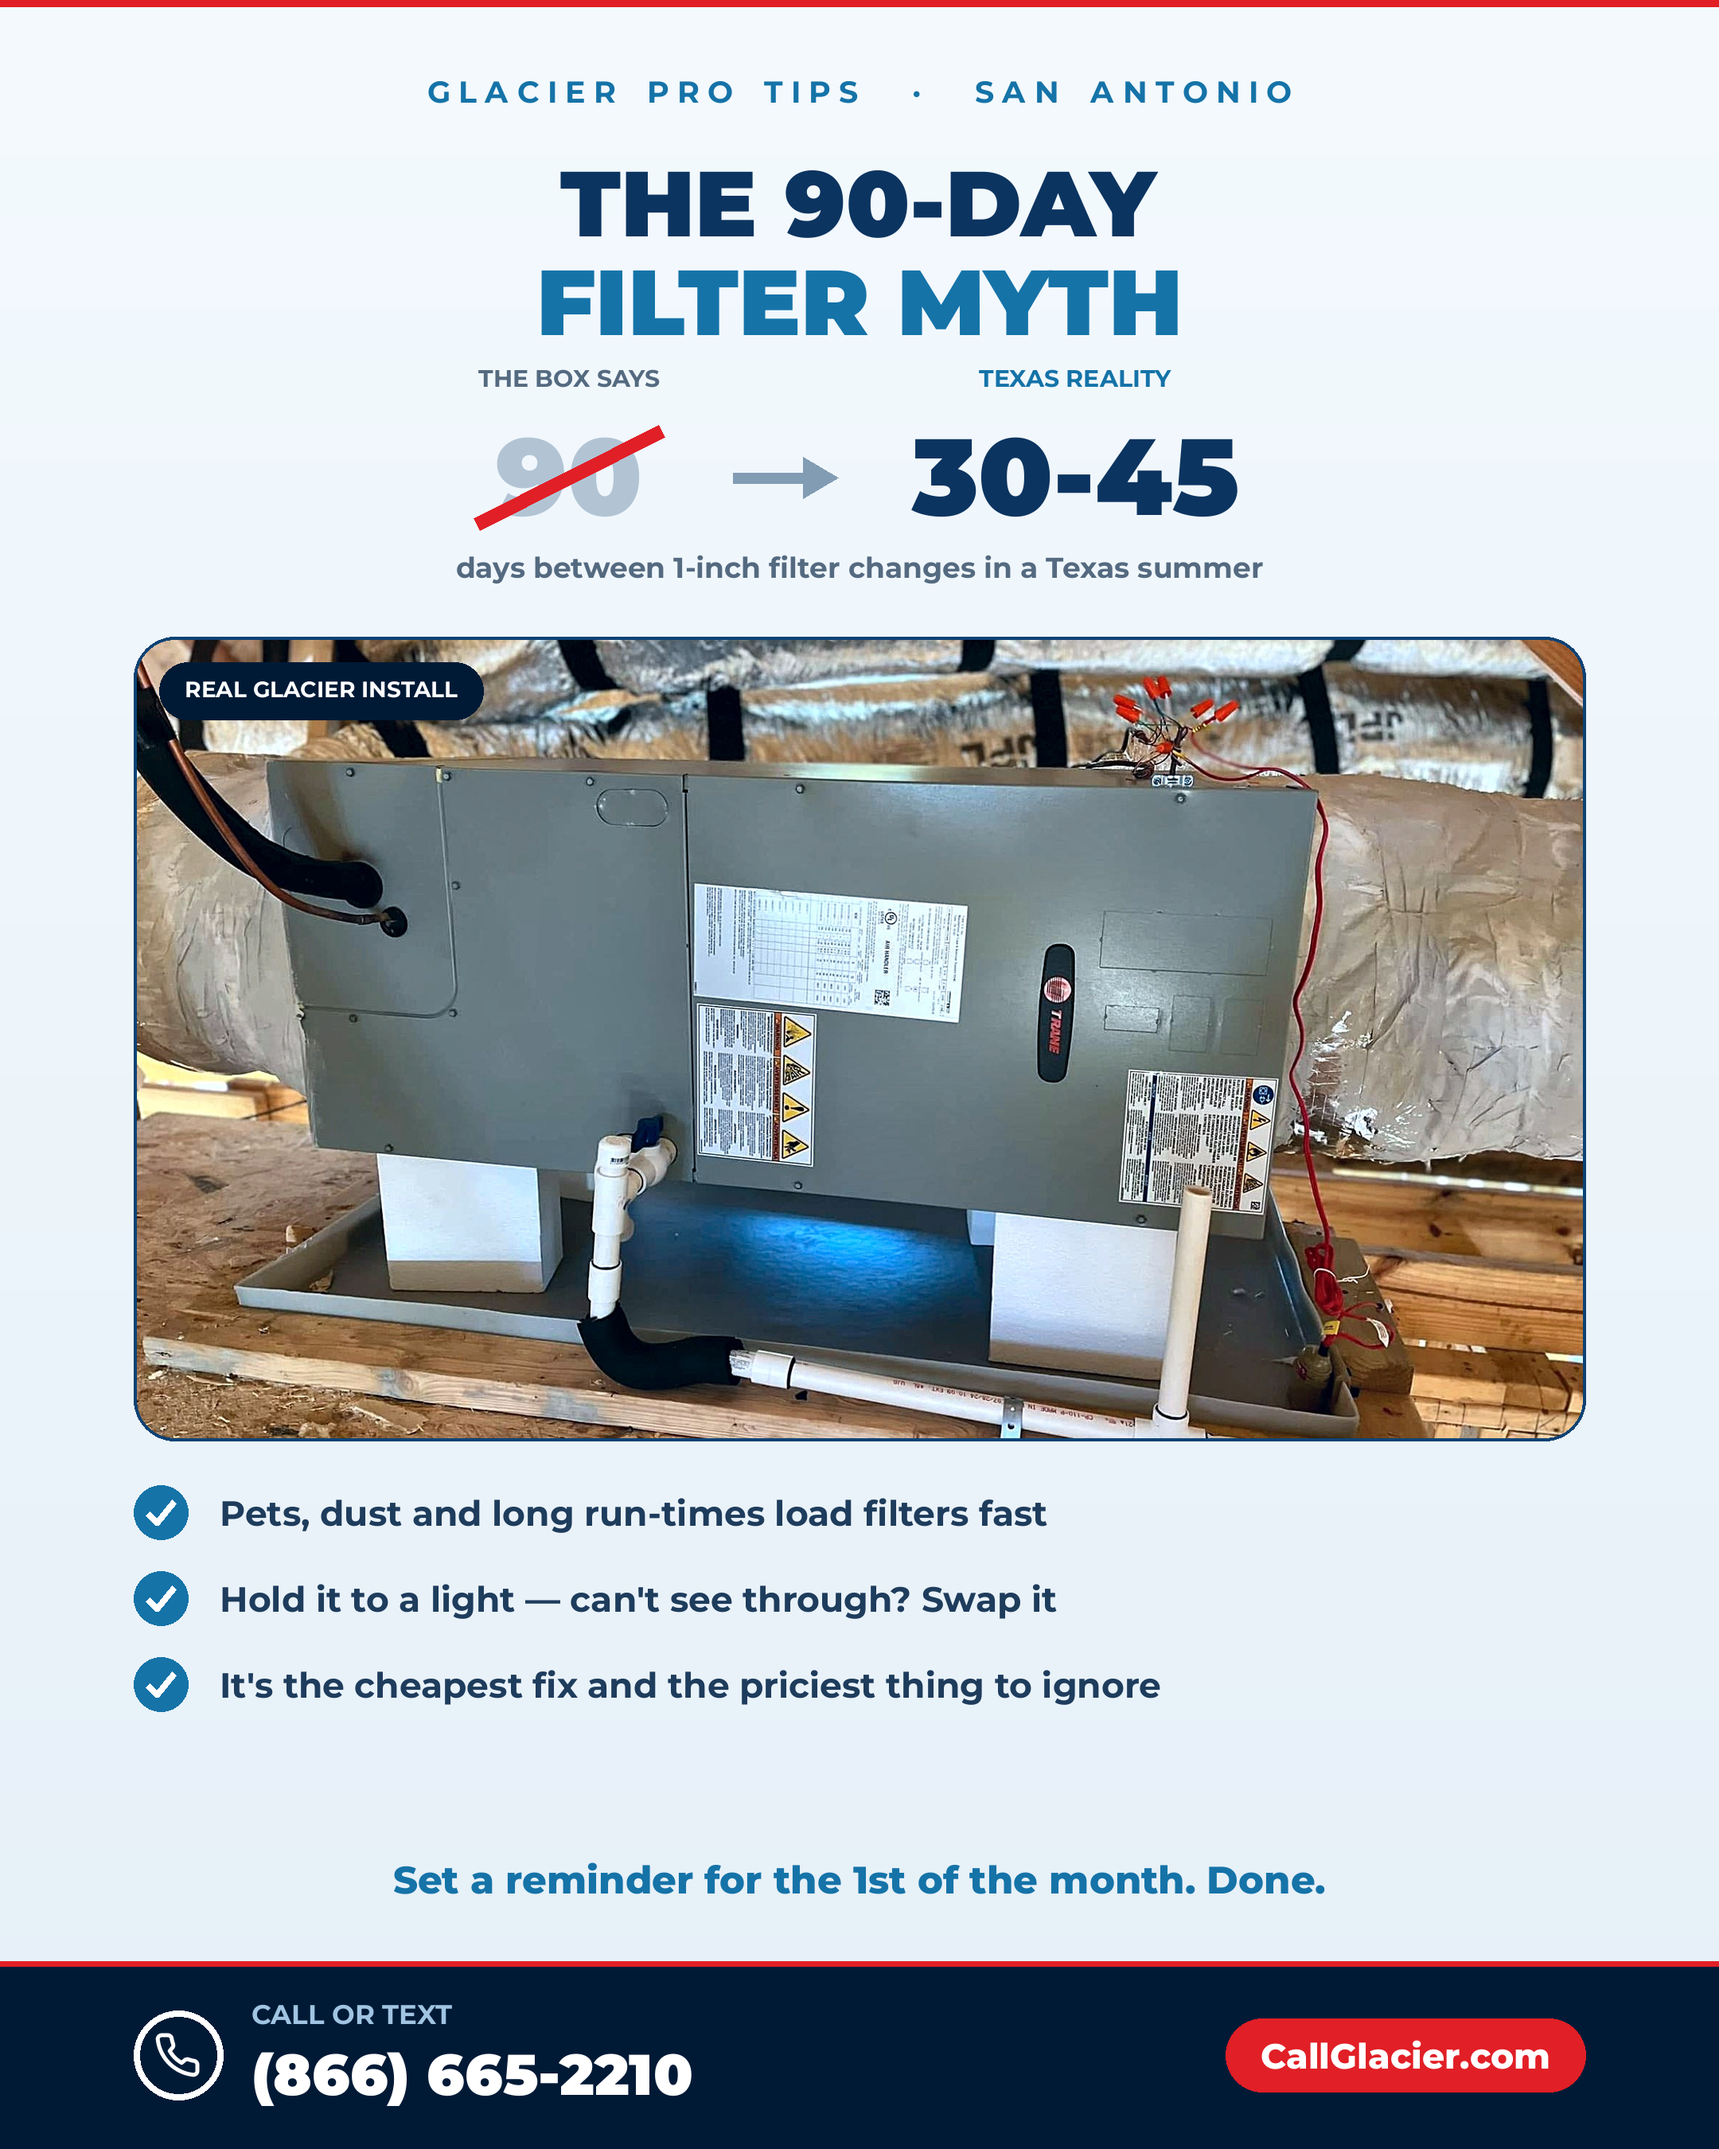
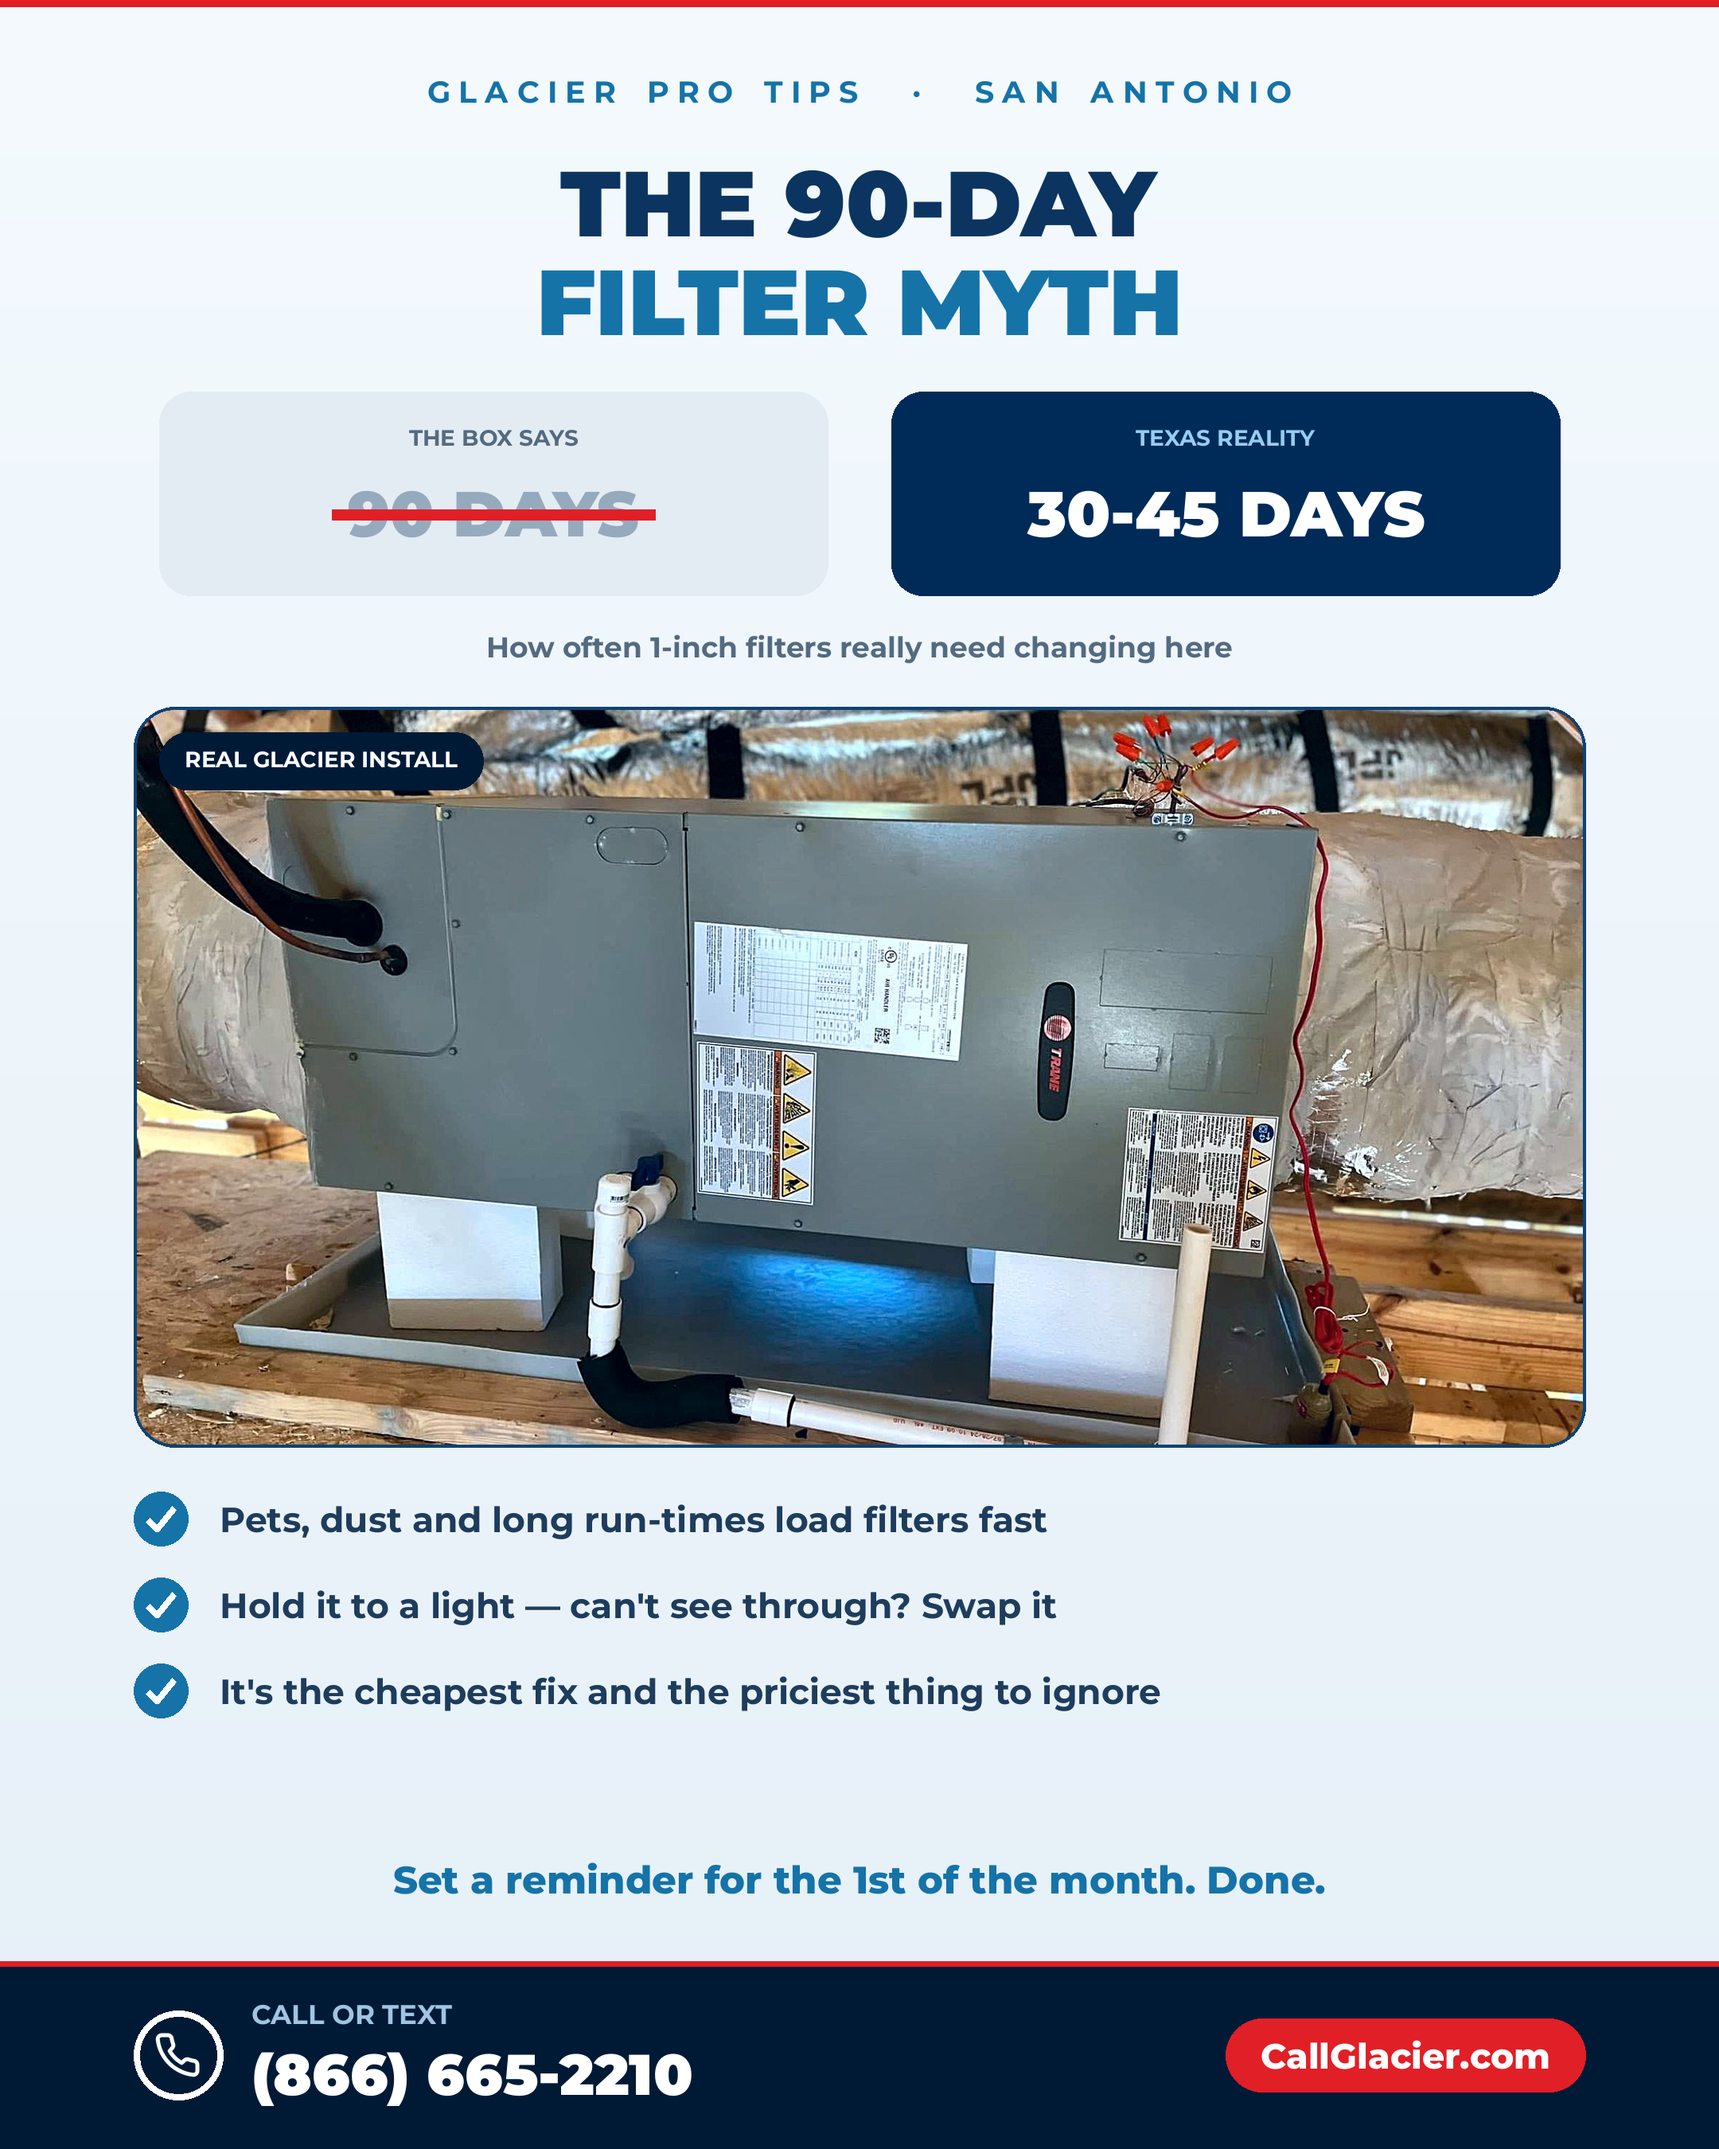
Rebuild filter-myth comparison as level twin cards, no diagonal strike
Claude-Session: https://claude.ai/code/session_0176LFk56ELEVayoECBSNudw

Changed region(s): [[0.062, 0.1556, 0.9306, 0.8089]]

diff --git a/glacier-site/scratchpad/make_tips.py b/glacier-site/scratchpad/make_tips.py
@@ -388,37 +388,30 @@ def p7():
     eyebrow(d,7)
     center(d,"THE 90-DAY",f("Black",58),128*SC,HEAD)
     center(d,"FILTER MYTH",f("Black",58),190*SC,ICE)
-    # measured, symmetric comparison: [THE BOX SAYS / 90] -> [TEXAS REALITY / 30-45]
-    fN=f("Black",68); fL=f("Bold",15)
-    n1,n2="90","30-45"
-    l1,l2="THE BOX SAYS","TEXAS REALITY"
-    w1=T(d,n1,fN)[0]; w2=T(d,n2,fN)[0]
-    lw1=T(d,l1,fL)[0]; lw2=T(d,l2,fL)[0]
-    c1=max(w1,lw1); c2=max(w2,lw2)          # column widths
-    AR=int(66*SC); GAP=int(46*SC)           # arrow width, gaps
-    total=c1+GAP+AR+GAP+c2
-    x0=(W-total)//2
-    cx1=x0+c1//2; cx2=x0+c1+GAP+AR+GAP+c2//2
-    lab_y=int(238*SC); num_y=int(300*SC)
-    for cx,lab,col in ((cx1,l1,SLATE),(cx2,l2,ICE)):
-        wl,hl,bbl=T(d,lab,fL)
-        d.text((cx-wl/2-bbl[0],lab_y-hl/2-bbl[1]),lab,font=fL,fill=col)
-    # 90 (struck through its measured ink bounds)
+    # two identical, level comparison cards — no diagonals anywhere
+    CW=int(420*SC); CH=int(128*SC); CGAP=int(40*SC)
+    cy0=int(246*SC)
+    x1=W//2-CGAP//2-CW; x2=W//2+CGAP//2
+    # left card: the box's claim, struck with a LEVEL line
+    d.rounded_rectangle([x1,cy0,x1+CW,cy0+CH],radius=20*SC,fill=(228,236,243,255))
+    fL=f("Bold",14); fN=f("Black",40)
+    l1="THE BOX SAYS"; n1="90 DAYS"
+    wl,hl,bbl=T(d,l1,fL)
+    d.text((x1+CW/2-wl/2-bbl[0],cy0+int(20*SC)),l1,font=fL,fill=SLATE)
     wn,hn,bbn=T(d,n1,fN)
-    tx=cx1-wn/2-bbn[0]; ty=num_y-hn/2-bbn[1]
-    d.text((tx,ty),n1,font=fN,fill=(178,196,212,255))
-    ix0,iy0,ix1,iy1=tx+bbn[0],ty+bbn[1],tx+bbn[2],ty+bbn[3]
-    pad=int(12*SC)
-    d.line([(ix0-pad,iy1+int(4*SC)),(ix1+pad,iy0-int(4*SC))],fill=RED,width=9*SC)
-    # arrow, vertically centered on the numbers
-    acx=x0+c1+GAP+AR//2
-    d.line([(acx-AR//2,num_y),(acx+AR//2-int(14*SC),num_y)],fill=(130,156,180,255),width=7*SC)
-    d.polygon([(acx+AR//2,num_y),(acx+AR//2-int(22*SC),num_y-int(13*SC)),(acx+AR//2-int(22*SC),num_y+int(13*SC))],fill=(130,156,180,255))
-    # 30-45
+    ntx=x1+CW/2-wn/2-bbn[0]; nty=cy0+int(52*SC)
+    d.text((ntx,nty),n1,font=fN,fill=(150,170,190,255))
+    iy=nty+bbn[1]+(bbn[3]-bbn[1])//2
+    d.line([(ntx+bbn[0]-int(10*SC),iy),(ntx+bbn[2]+int(10*SC),iy)],fill=RED,width=7*SC)
+    # right card: the Texas reality
+    d.rounded_rectangle([x2,cy0,x2+CW,cy0+CH],radius=20*SC,fill=NAVY)
+    l2="TEXAS REALITY"; n2="30-45 DAYS"
+    wl2,hl2,bbl2=T(d,l2,fL)
+    d.text((x2+CW/2-wl2/2-bbl2[0],cy0+int(20*SC)),l2,font=fL,fill=(150,205,240,255))
     wn2,hn2,bbn2=T(d,n2,fN)
-    d.text((cx2-wn2/2-bbn2[0],num_y-hn2/2-bbn2[1]),n2,font=fN,fill=HEAD)
-    center(d,"days between 1-inch filter changes in a Texas summer",f("Bold",18),int(358*SC),SLATE)
-    py=int(400*SC); ph_h=int(505*SC)
+    d.text((x2+CW/2-wn2/2-bbn2[0],cy0+int(52*SC)),n2,font=fN,fill=(255,255,255,255))
+    center(d,"How often 1-inch filters really need changing here",f("Bold",18),int(408*SC),SLATE)
+    py=int(444*SC); ph_h=int(465*SC)
     photo_card(img,"brand/jobs/raw/b6-26-trane-airhandler-side-full.jpg",(M,py,W-2*M,ph_h))
     d=ImageDraw.Draw(img,"RGBA")
     bt="REAL GLACIER INSTALL"; fb=f("Bold",14)
